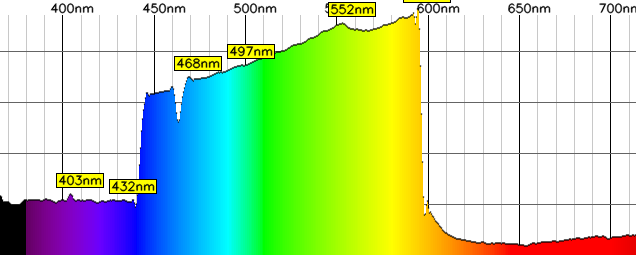
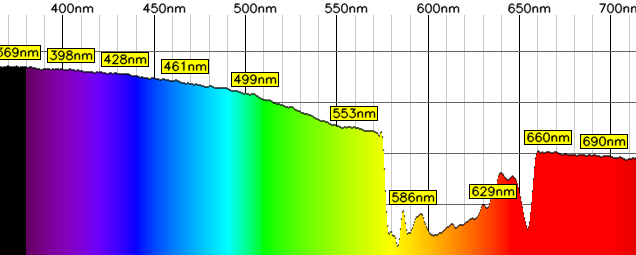
fix shot bug

diff --git a/labello/src/labello.py b/labello/src/labello.py
@@ -37,7 +37,7 @@ from matplotlib.figure import Figure
 import os.path
 
 import ast
-
+from Params import  *
 import cv2
 import numpy as np
 
@@ -49,7 +49,7 @@ UI_FILE = "ui/labello.ui"
 class GUI:
     def __init__(self):
 
-        self.params = Params()
+        self.parms = Params()
 
         self.camera_status  = "Unknow"
         self.plate_status   = "Unknow"
@@ -536,7 +536,7 @@ class GUI:
 
         rgb_image = self.builder.get_object('rgb_image')
         pc_image = self.builder.get_object('pc_image')
-        spect_image = self.builder.get_object('spect_image')
+
 
         ### SHOW RGB IMAGE
         rgb_img, pc_ima = self.image_manager.get_next_rgb_image()
@@ -550,7 +550,7 @@ class GUI:
         rgb_image.set_from_pixbuf(pixbuf.copy())
 
         ### SHOW PC IMAGE
-        #pc_ima = self.image_manager.get_next_pc_image()
+        #pc_ima = self.image_manager.get_next_pc_image()  ## To delete
         pixbuf = GdkPixbuf.Pixbuf.new_from_data(pc_ima.tobytes(),
                                                 GdkPixbuf.Colorspace.RGB,
                                                 False,
@@ -560,16 +560,7 @@ class GUI:
                                                 pc_ima.shape[2] * rgb_img.shape[1])
         pc_image.set_from_pixbuf(pixbuf.copy())
 
-        ### SHOW SPECTRO IMAGE
-        spect_img = self.image_manager.get_next_specto_image()
-        pixbuf = GdkPixbuf.Pixbuf.new_from_data(spect_img.tobytes(),
-                                                GdkPixbuf.Colorspace.RGB,
-                                                False,
-                                                8,
-                                                spect_img.shape[1],
-                                                spect_img.shape[0],
-                                                spect_img.shape[2] * rgb_img.shape[1])
-        spect_image.set_from_pixbuf(pixbuf.copy())
+
 
     def save_current_image(self, btn):
         data = {}
@@ -599,10 +590,10 @@ class GUI:
         data['img_specto_spectr_rgb'] = ""
         data['img_specto_graph_rgb'] = ""
 
-        rgb_path = self.params.get_image_path()
-        pcd_path = self.params.get_cloud_path()
-        spectro_path = self.params.get_spectro_path()
-        graph_path = self.params.get_graph_path()
+        rgb_path = self.parms.get_image_path()
+        pcd_path = self.parms.get_cloud_path()
+        spectro_path = self.parms.get_spectro_path()
+        graph_path = self.parms.get_graph_path()
 
         if self.camera_status != 'OK':
             if self.image_manager.check_camera_is_connected() is False:
@@ -620,7 +611,7 @@ class GUI:
                 return
 
         if self.spectro_status != 'OK':
-            if self.spectro_capture() is False:
+            if self.spectro_data != [0]:
                 print("No spectro ")
                 dialog = Gtk.MessageDialog(
                     title="Error spectro",
@@ -660,6 +651,32 @@ class GUI:
         if specter_data:
             self.spectro_data = specter_data
             self.draw_spectro()
+
+            ### SHOW SPECTRO IMAGE
+            spect_image = self.builder.get_object('spect_image')
+            spect_img = self.image_manager.get_next_specto_image()
+            pixbuf = GdkPixbuf.Pixbuf.new_from_data(data = spect_img.tobytes(),
+                                                    colorspace = GdkPixbuf.Colorspace.RGB,
+                                                    has_alpha = False,
+                                                    bits_per_sample = 8,
+                                                    width = spect_img.shape[1],
+                                                    height = spect_img.shape[0],
+                                                    rowstride = spect_img.shape[2] * spect_img.shape[1])
+            spect_image.set_from_pixbuf(pixbuf.copy())
+
+            ### SHOW SPECTRO Graph
+            spect_image = self.builder.get_object('graph_image')
+            spect_img = self.image_manager.get_next_graph_img_image()
+
+            pixbuf = GdkPixbuf.Pixbuf.new_from_data(data = spect_img.tobytes(),
+                                                    colorspace = GdkPixbuf.Colorspace.RGB,
+                                                    has_alpha = False,
+                                                    bits_per_sample = 8,
+                                                    width = spect_img.shape[1],
+                                                    height = spect_img.shape[0],
+                                                    rowstride = spect_img.shape[2] * spect_img.shape[1])
+            spect_image.set_from_pixbuf(pixbuf.copy())
+
             return True
         return False
 
@@ -673,10 +690,10 @@ class GUI:
 
             self.scan_object.load_image(id_object, id_image)
 
-            rgb_path = self.params.get_image_path()
-            pcd_path = self.params.get_cloud_path()
-            spectro_path = self.params.get_spectro_path()
-            graph_path = self.params.get_graph_path()
+            rgb_path = self.parms.get_image_path()
+            pcd_path = self.parms.get_cloud_path()
+            spectro_path = self.parms.get_spectro_path()
+            graph_path = self.parms.get_graph_path()
 
             rgb_image = self.builder.get_object('rgb_image')
             depth_image = self.builder.get_object('pc_image')

diff --git a/labello/src/SpectroManager.py b/labello/src/SpectroManager.py
@@ -2,12 +2,14 @@
 import base64
 import socket
 import json
-
+from Params import *
 
 class SpectroManager:
     def __init__(self):
-        self.ip = socket.gethostbyname(socket.gethostname())
-        self.port = 5566
+        self.prms = Params()
+        self.ip =  self.prms.get_spectro_ip()
+        self.port = self.prms.get_spectro_port()
+        # print(self.ip , ":", self.port)
         self.addr = (self.ip, self.port)
         self.size = 100000
         self.data_array = []
@@ -24,31 +26,37 @@ class SpectroManager:
         except:
             return False
 
-        msg = client.recv(self.size).decode("utf-8")
-        recv_data = msg
-        while (len(msg)):
+        try :
             msg = client.recv(self.size).decode("utf-8")
-            recv_data = recv_data + msg
+            recv_data = msg
+            while (len(msg)):
+                msg = client.recv(self.size).decode("utf-8")
+                recv_data = recv_data + msg
 
-        print(f"[SERVER]: {str(len(recv_data))} chars")
-        """ Sending the file data to the server. """
+            print(f"[SERVER]: {str(len(recv_data))} chars")
+            """ Sending the file data to the server. """
 
-        json_obj = json.loads(recv_data)
-        image_specter = json.dumps(json_obj['image_specter'])
+            json_obj = json.loads(recv_data)
+            image_specter = json.dumps(json_obj['image_specter'])
 
-        specter_file_name = "specter.png"
-        with open(specter_file_name, "wb") as fh:
-            img = base64.b64decode(image_specter)
-            fh.write(img)
+            specter_file_name = "specter.png"
+            with open(specter_file_name, "wb") as fh:
+                img = base64.b64decode(image_specter)
+                fh.write(img)
 
-        image_graphe = json.dumps(json_obj['image_graphe'])
+            image_graphe = json.dumps(json_obj['image_graphe'])
 
-        graph_file_name = "graph.png"
-        with open(graph_file_name, "wb") as fh:
-            img = base64.b64decode(image_graphe)
-            fh.write(img)
+            graph_file_name = "graph.png"
+            with open(graph_file_name, "wb") as fh:
+                img = base64.b64decode(image_graphe)
+                fh.write(img)
 
-        self.data_array = json.dumps(json_obj['data_array'])
+
+            self.data_array = json.dumps(json_obj['data_array'])
+        except Exception as e:
+            print (e)
+            return False
+
         client.close()
         return [self.data_array, specter_file_name, graph_file_name]
 
@@ -60,7 +68,8 @@ class SpectroManager:
         except ConnectionRefusedError:
             print("Can't establish spectroscope connexion : IP " + self.ip + ' port ' + str(self.port))
             return False
-        except:
+        except Exception as e:
+            print(e)
             return False
 
         return True

diff --git a/labello/src/ImageManager.py b/labello/src/ImageManager.py
@@ -139,14 +139,20 @@ class ImageManager:
         return resized_color_image, resized_depth_colormap_image
 
 
-    def get_next_pc_image(self):
-        pic = cv2.imread("cat.jpg")
+    # def get_next_pc_image(self):  ## to delete
+    #     pic = cv2.imread("cat.jpg")
+    #     pic = cv2.resize(pic, None, fx=0.5, fy=0.5, interpolation=cv2.INTER_CUBIC)
+    #     pic = cv2.cvtColor(pic, cv2.COLOR_BGR2RGB)
+    #     return pic
+
+    def get_next_specto_image(self):
+        pic = cv2.imread("specter.png")
         pic = cv2.resize(pic, None, fx=0.5, fy=0.5, interpolation=cv2.INTER_CUBIC)
         pic = cv2.cvtColor(pic, cv2.COLOR_BGR2RGB)
         return pic
 
-    def get_next_specto_image(self):
-        pic = cv2.imread("cat.jpg")
+    def get_next_graph_img_image(self):
+        pic = cv2.imread("graph.png")
         pic = cv2.resize(pic, None, fx=0.5, fy=0.5, interpolation=cv2.INTER_CUBIC)
         pic = cv2.cvtColor(pic, cv2.COLOR_BGR2RGB)
         return pic

diff --git a/labello/src/Params.py b/labello/src/Params.py
@@ -12,6 +12,11 @@ class Params:
         self.graph_path = self.base_path + "graph/"
         self.check_paths()
 
+    def get_spectro_ip(self):
+        return self.config['SPECTRO']['ip']
+
+    def get_spectro_port(self):
+        return int(self.config['SPECTRO']['port'])
 
     def read_config_file(self):
         self.config = configparser.ConfigParser()
